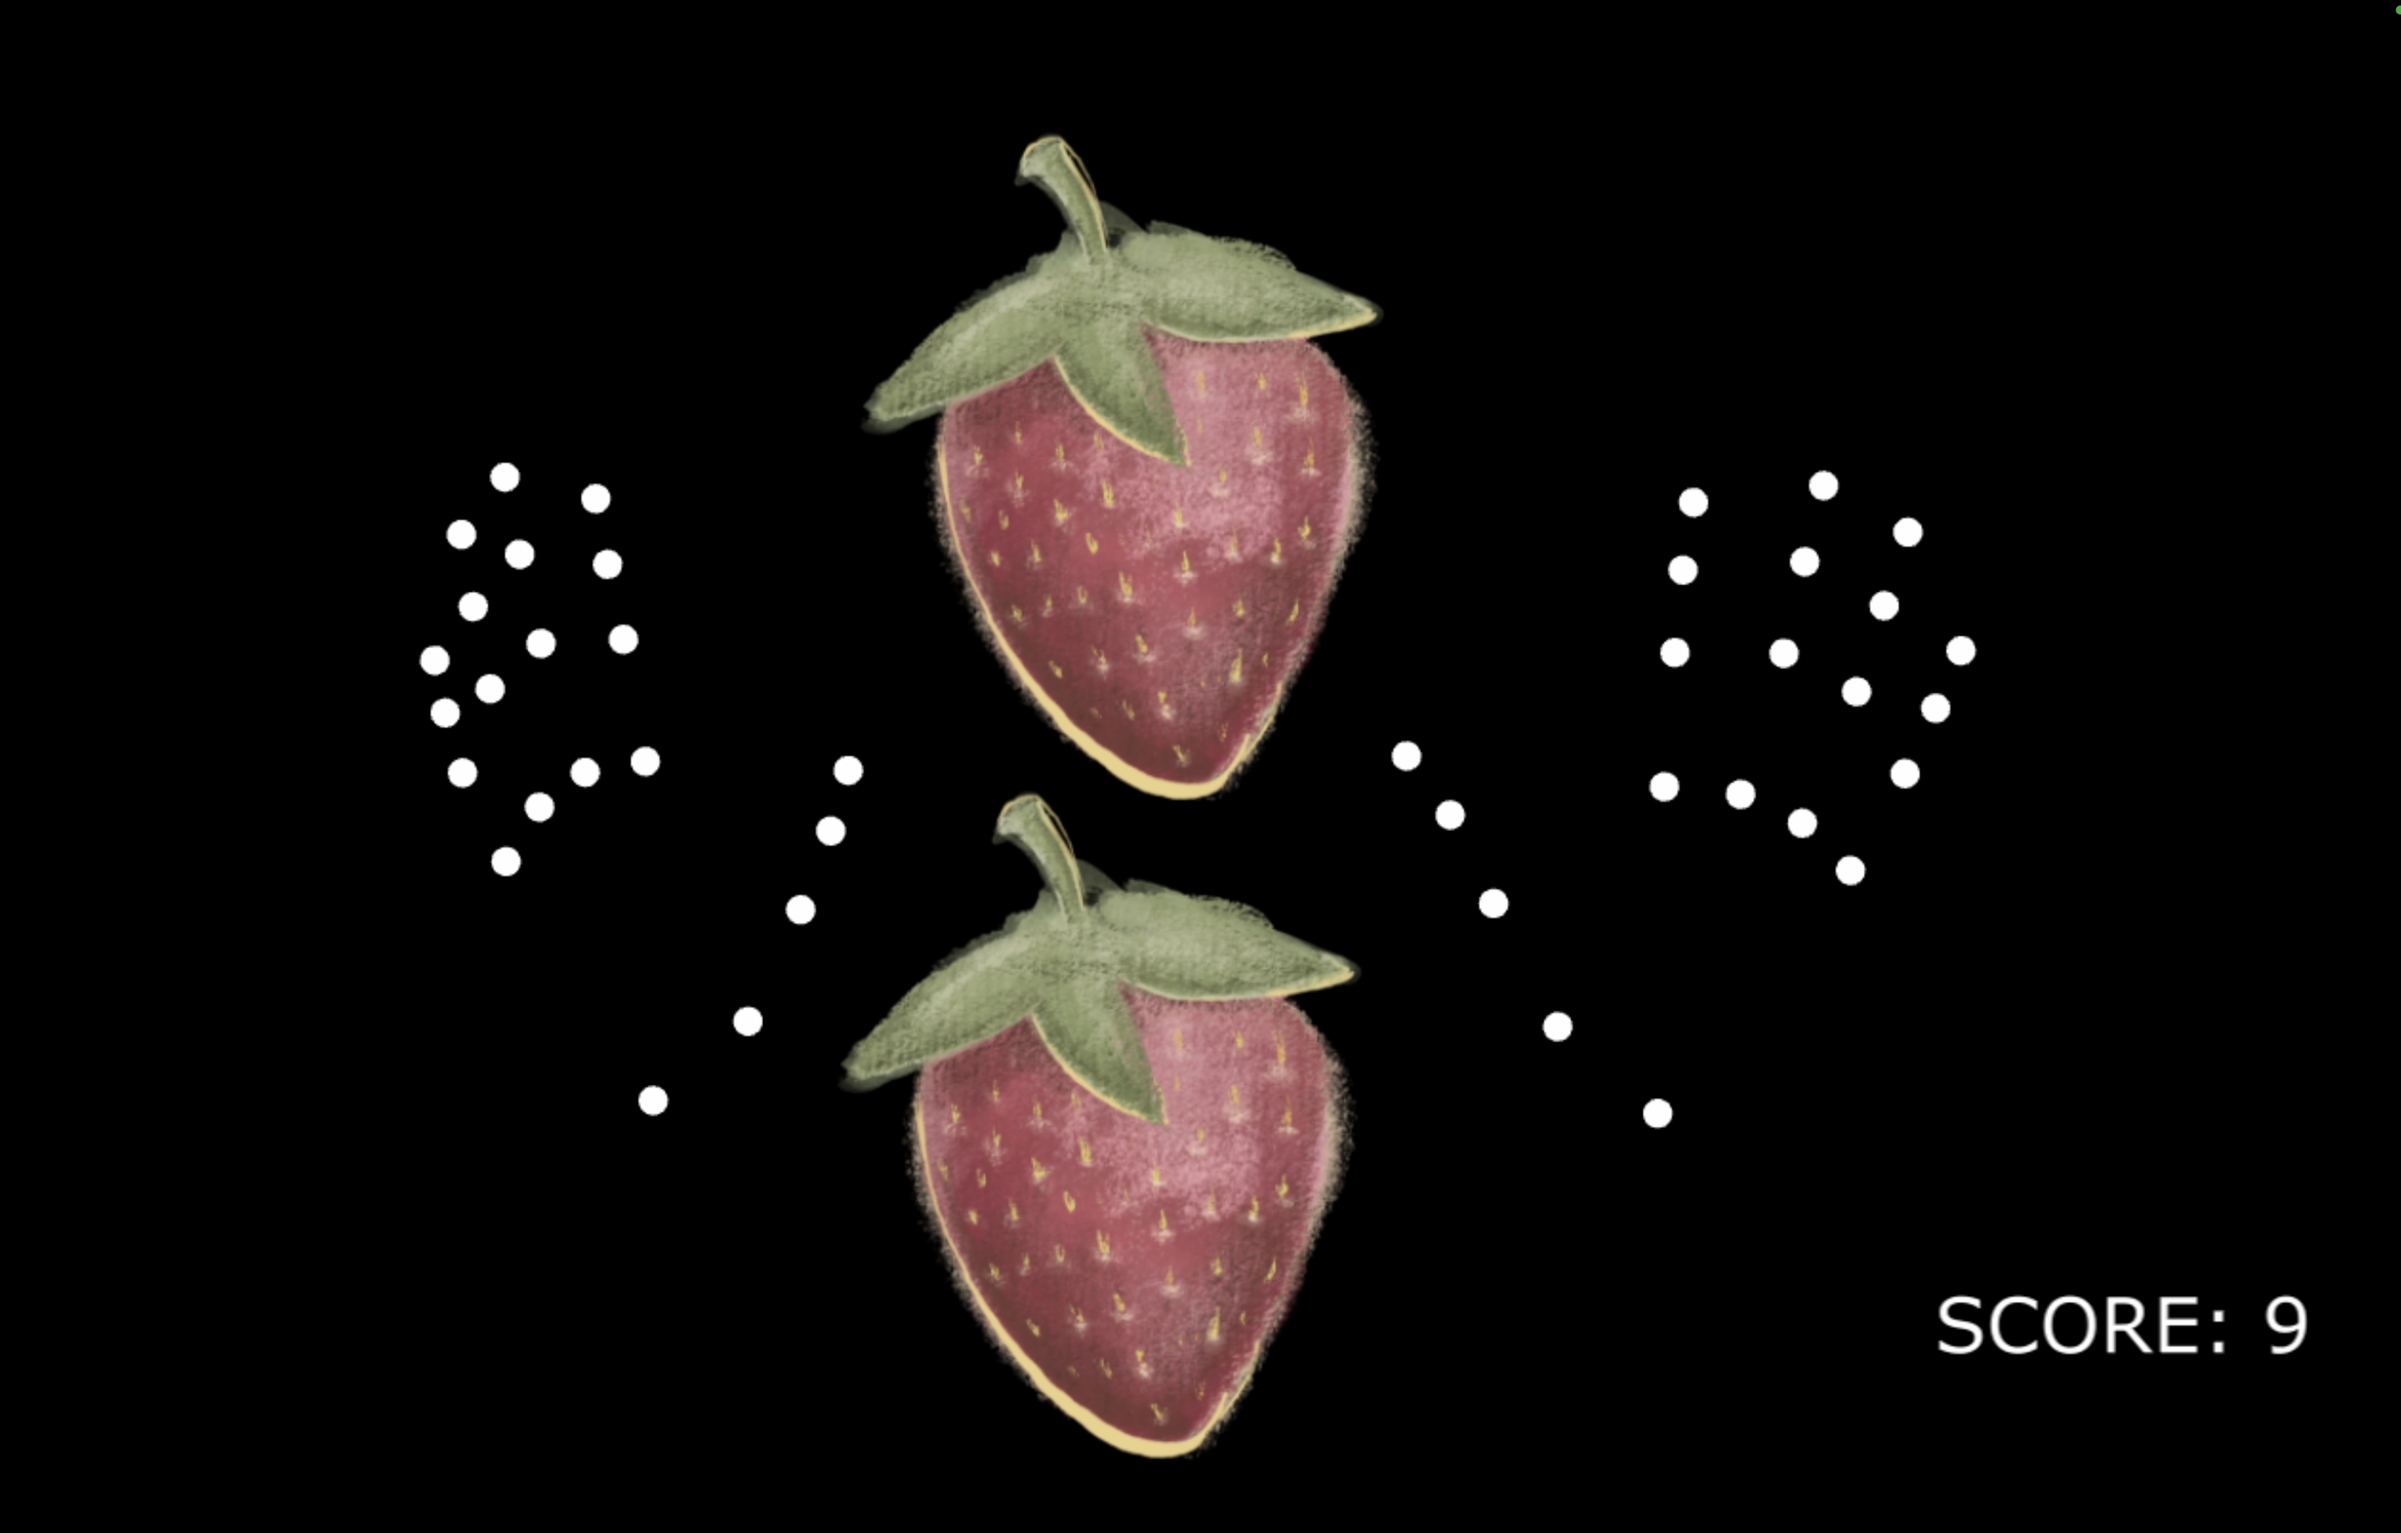
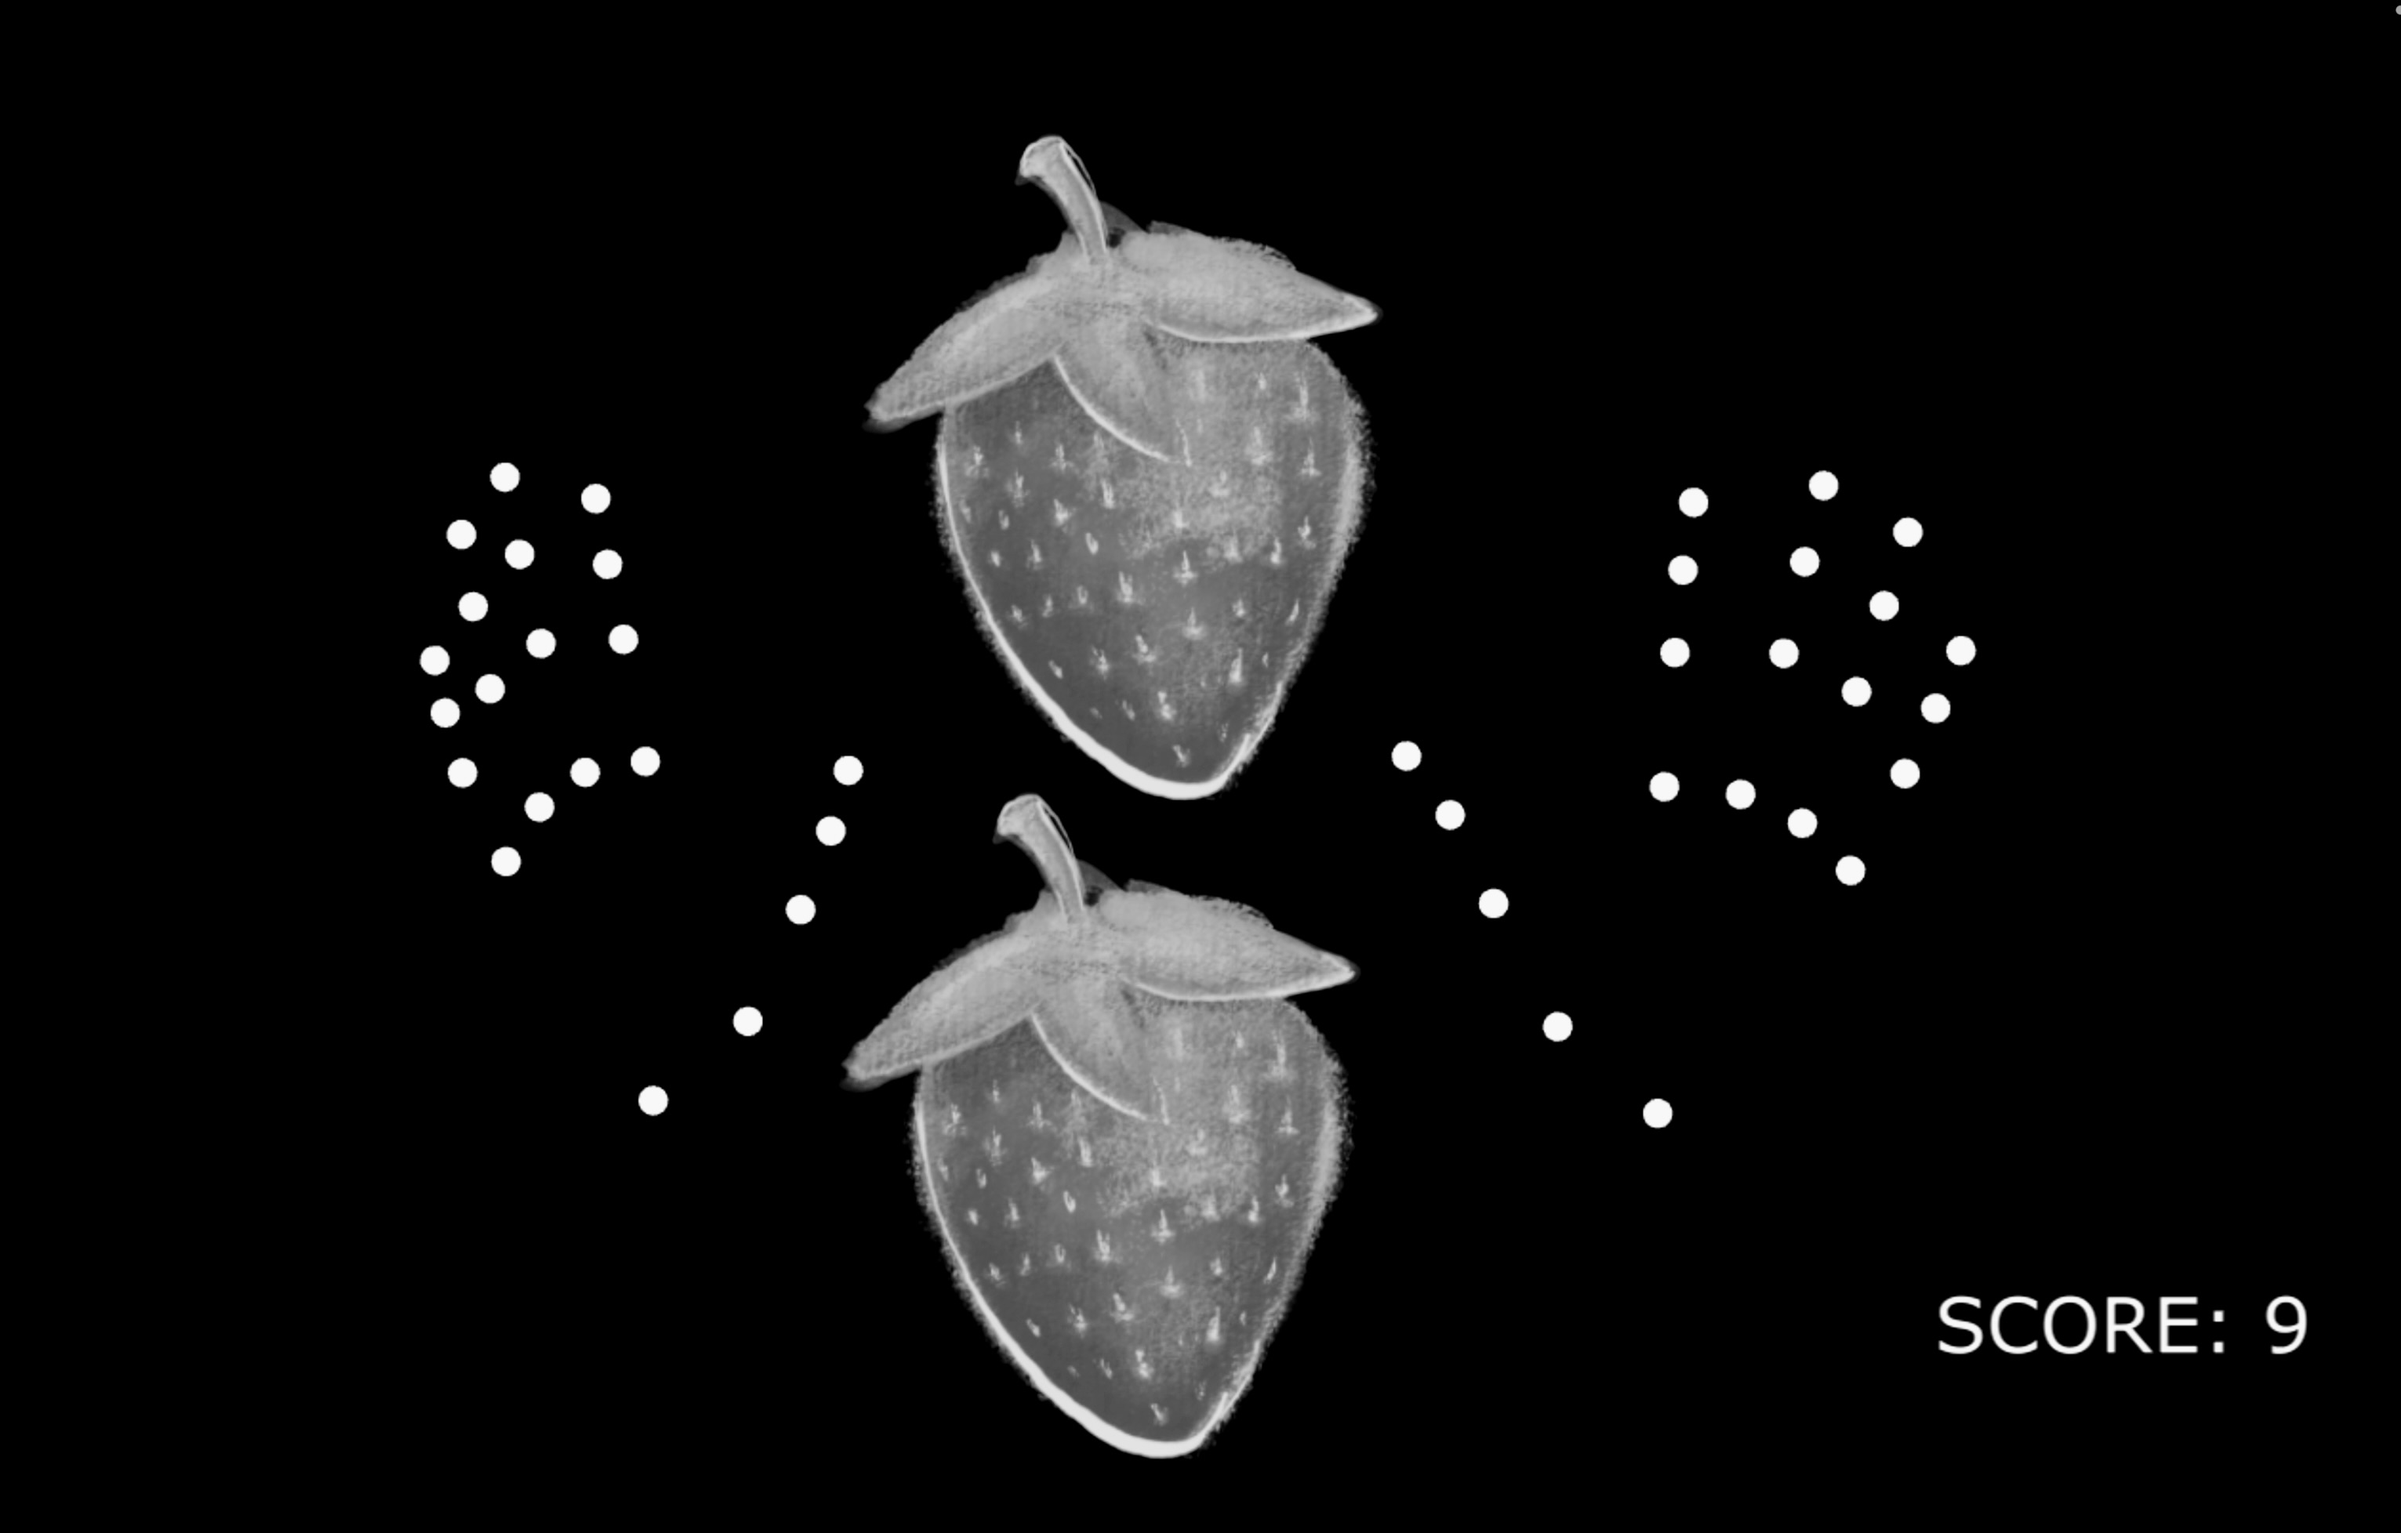
ljlkjk

Changed region(s): [[0.3413, 0.0936, 0.5895, 0.5302], [0.3413, 0.499, 0.5585, 0.9668]]

diff --git a/frontend/src/pages/Experiments.js b/frontend/src/pages/Experiments.js
@@ -20,7 +20,7 @@ function Experiments() {
     },
     {
       id: 2,
-      image: '/photosExperiments/fruit3.png',
+      image: '/photosExperiments/strawberrySmash.png',
     },
   ];
 
@@ -298,7 +298,7 @@ function Experiments() {
           transition: 'transform 0.5s ease-in-out'
         }}>
           {carouselItems.map((item, index) => {
-            const isFruitImage = item.image === '/photosExperiments/fruit3.png';
+            const isFruitImage = item.image === '/photosExperiments/strawberrySmash.png';
             const isCowboyImage = item.image === '/photosExperiments/cowboy.png';
             
             const handleMouseEnter = () => {
